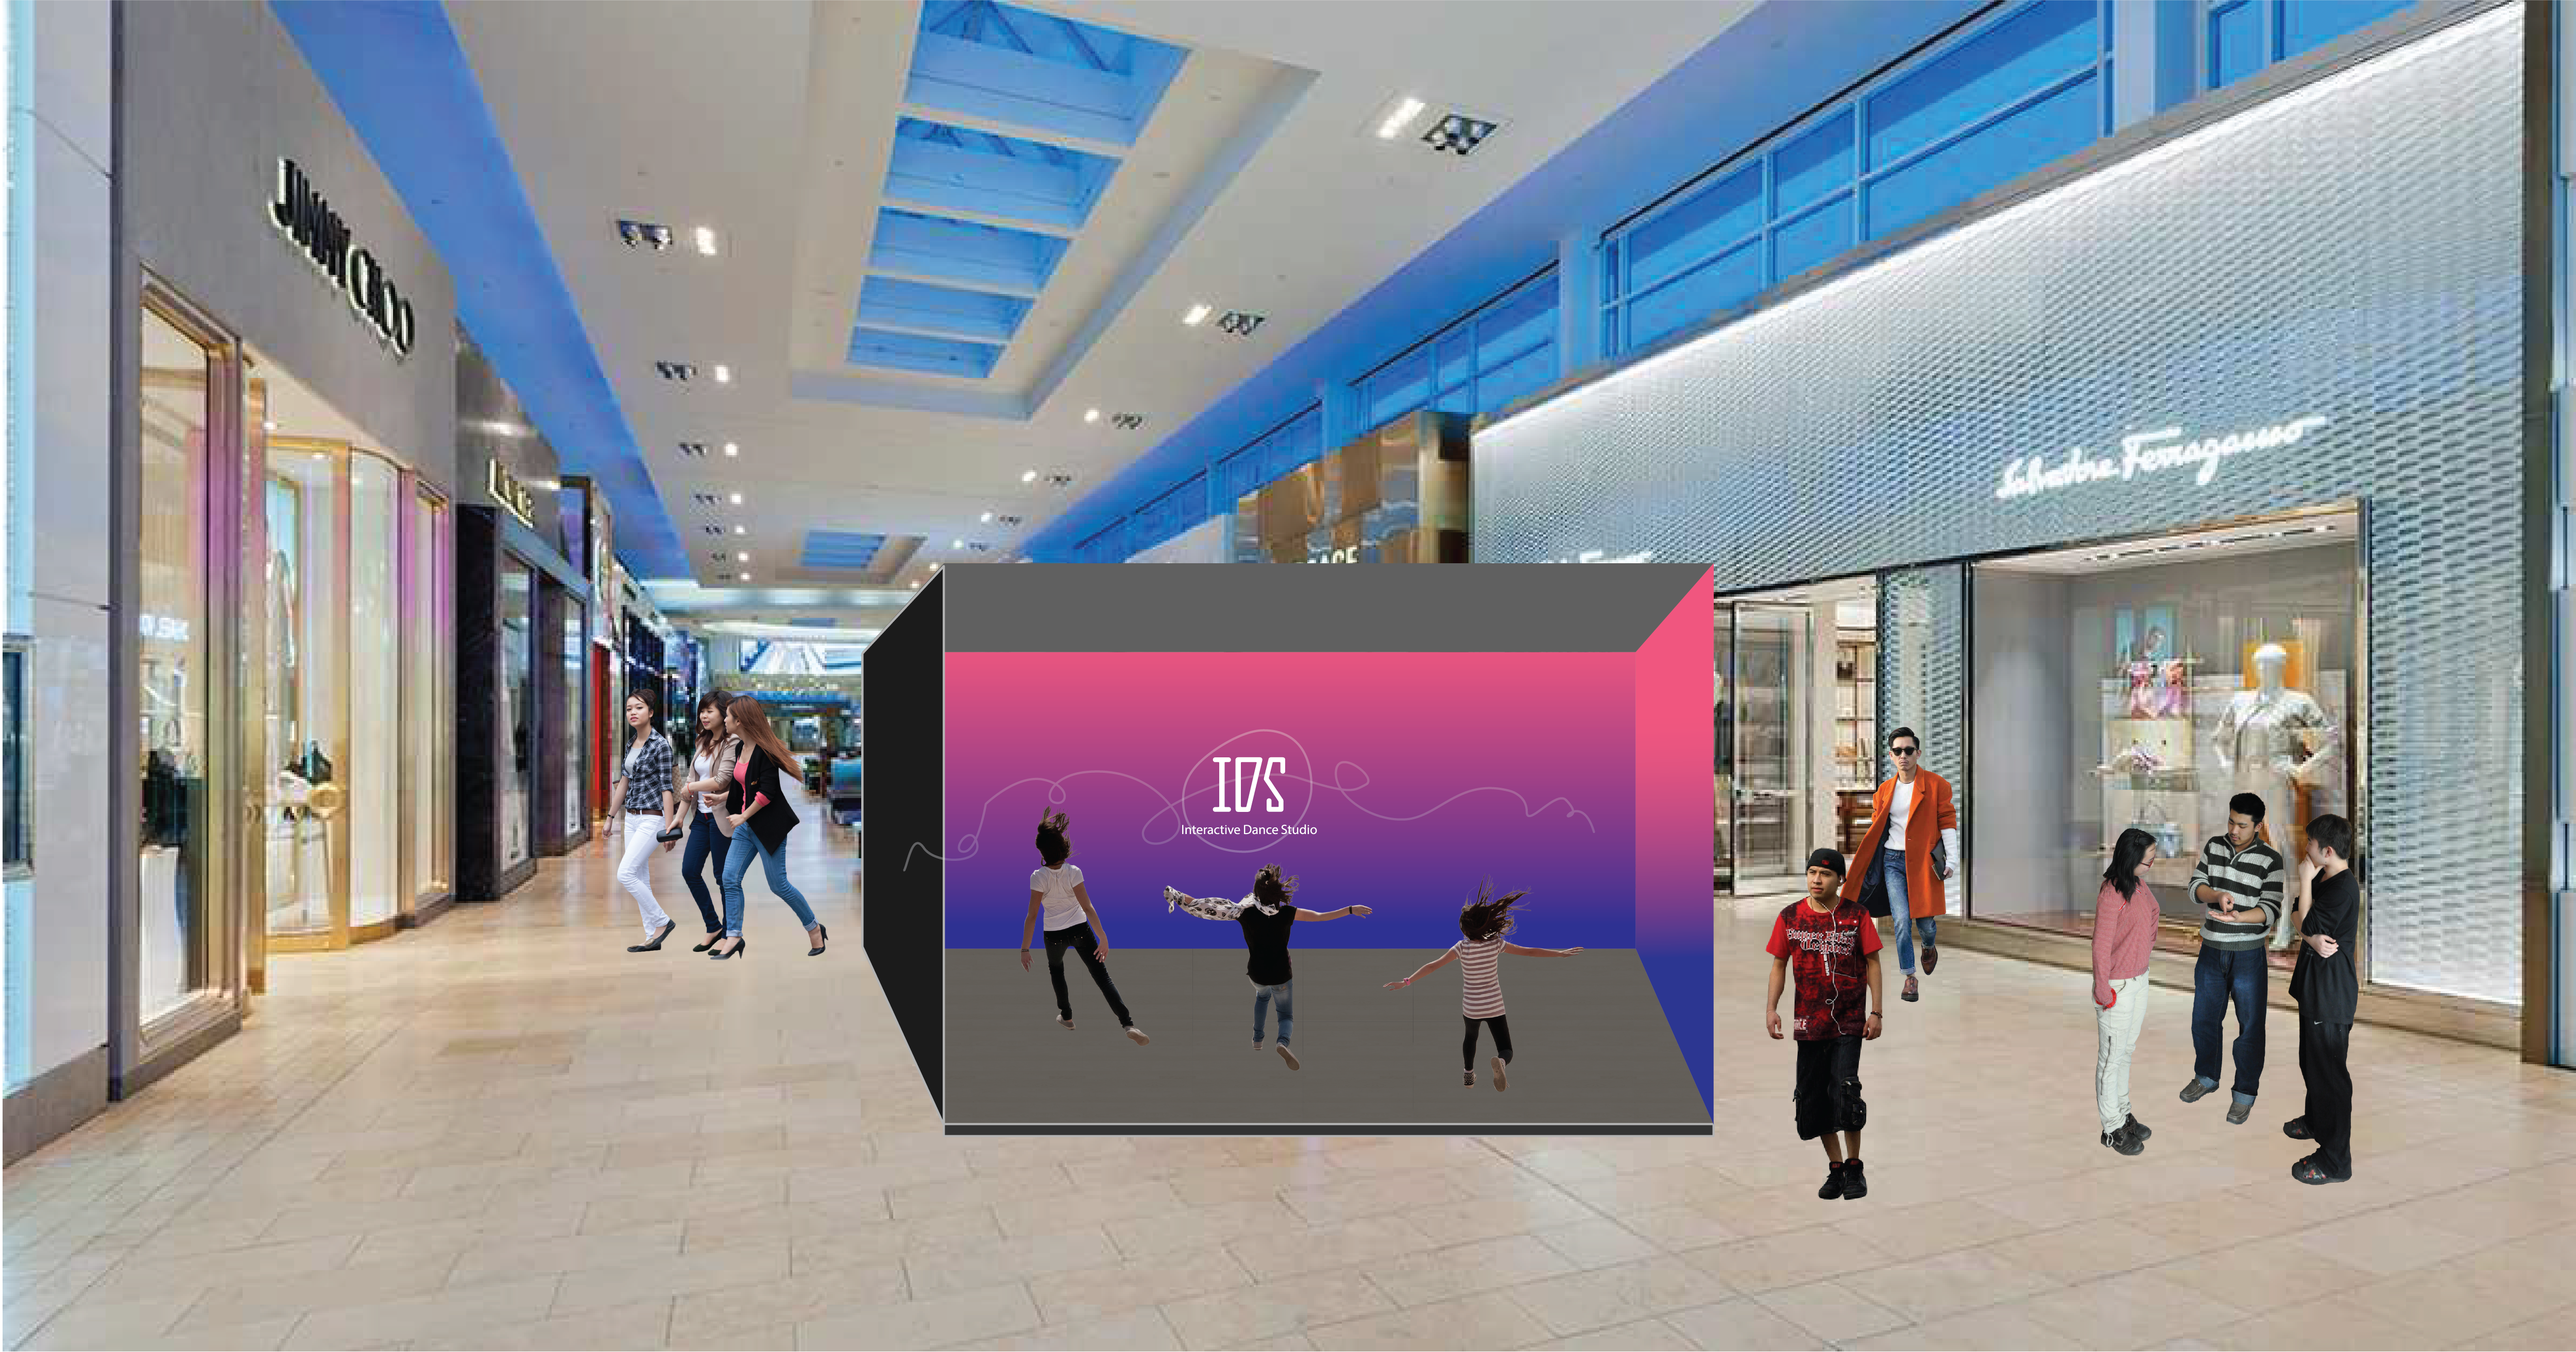
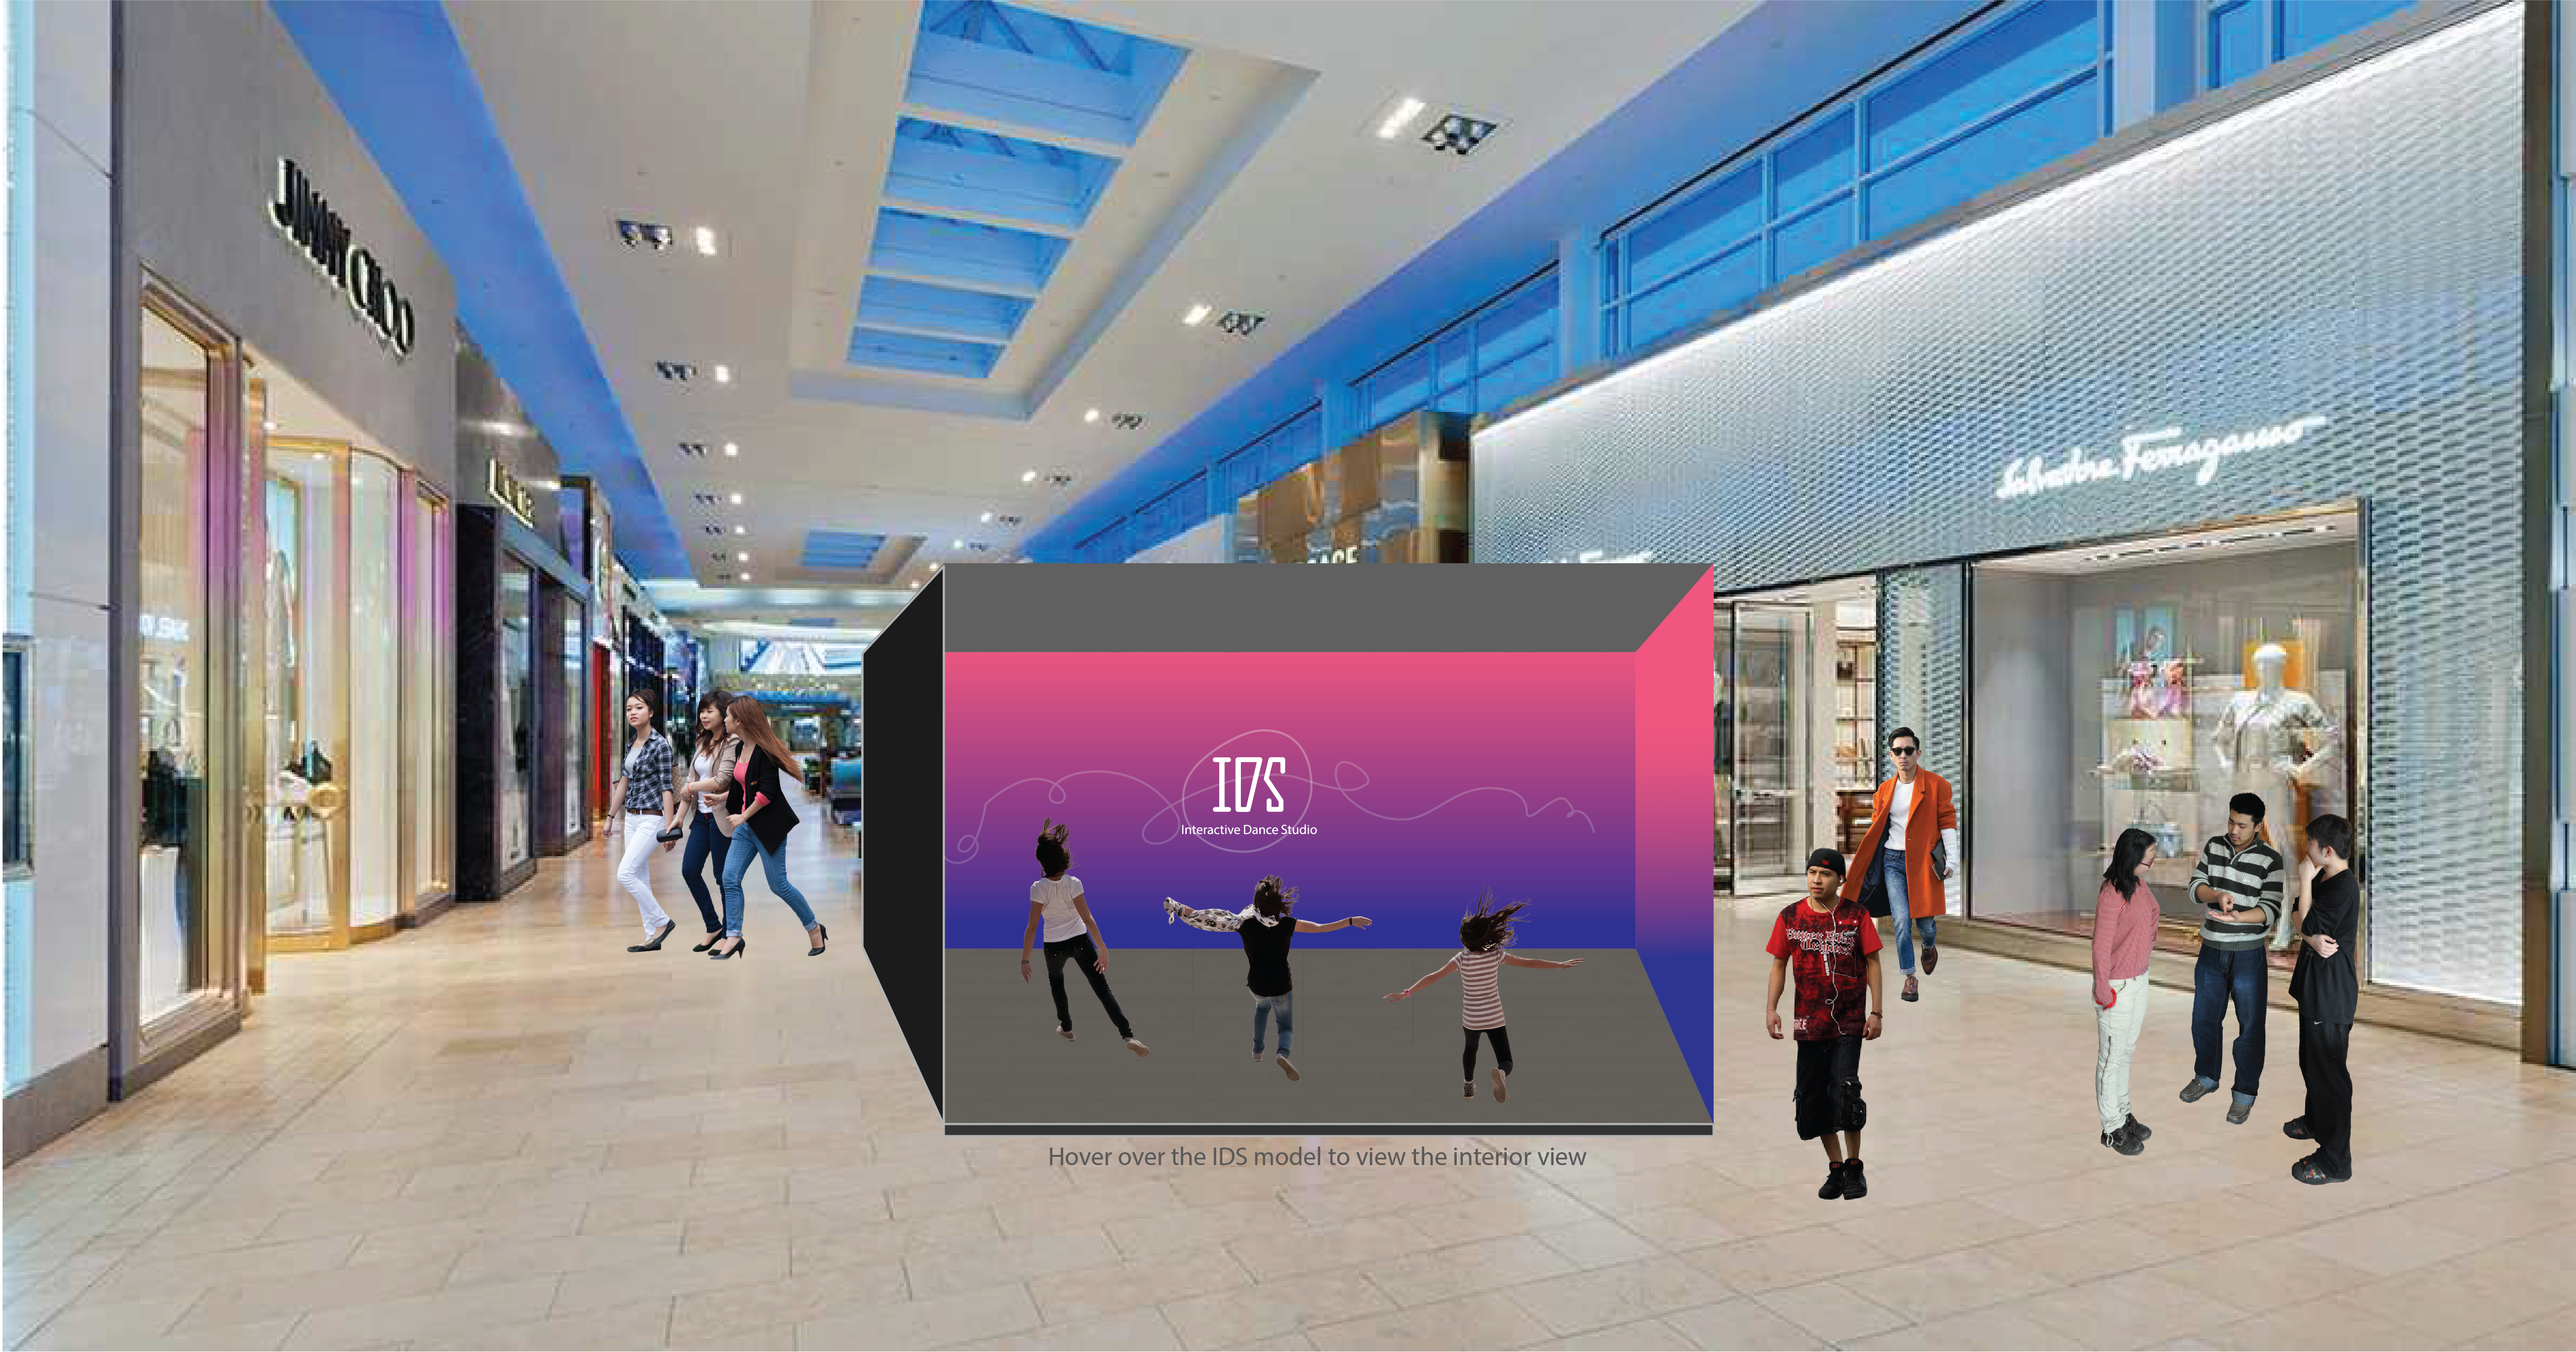
Hover effect added

Changed region(s): [[0.3743, 0.5933, 0.5303, 0.7807], [0.5303, 0.6558, 0.6239, 0.8119], [0.4055, 0.8431, 0.5927, 0.8743]]

diff --git a/index.html b/index.html
@@ -58,9 +58,10 @@
     </div>
 <!--Section 1 - image-->
     <div id="section-1" class="container-fluid justify-content-center">
-      <img >
     </div>
-
+    <div id="ids-exterior" class="justify-content-center text-center">
+      <img src="./assets/img/ids-mockup-exterior.png" alt="ids mockup">
+    </div>
 <!--Section 2: how it works-->
     <div id="section-2" class="container justify-content-center">
       <div class="text-center" data-aos="fade">

diff --git a/css/index.css b/css/index.css
@@ -76,6 +76,20 @@ p.customfont {
   background-position: center center;
   background-repeat: no-repeat;
 }
+
+#ids-exterior{
+  position: absolute;
+}
+#ids-exterior img{
+  width: 558px;
+  margin-top: -645px;
+  margin-left: 562px;
+  transition:all .3s ease-in;
+}
+ #ids-exterior img:hover {
+  opacity:0;
+}
+
 #section-2{
   margin-top: 130px;
   padding-bottom: 100px
